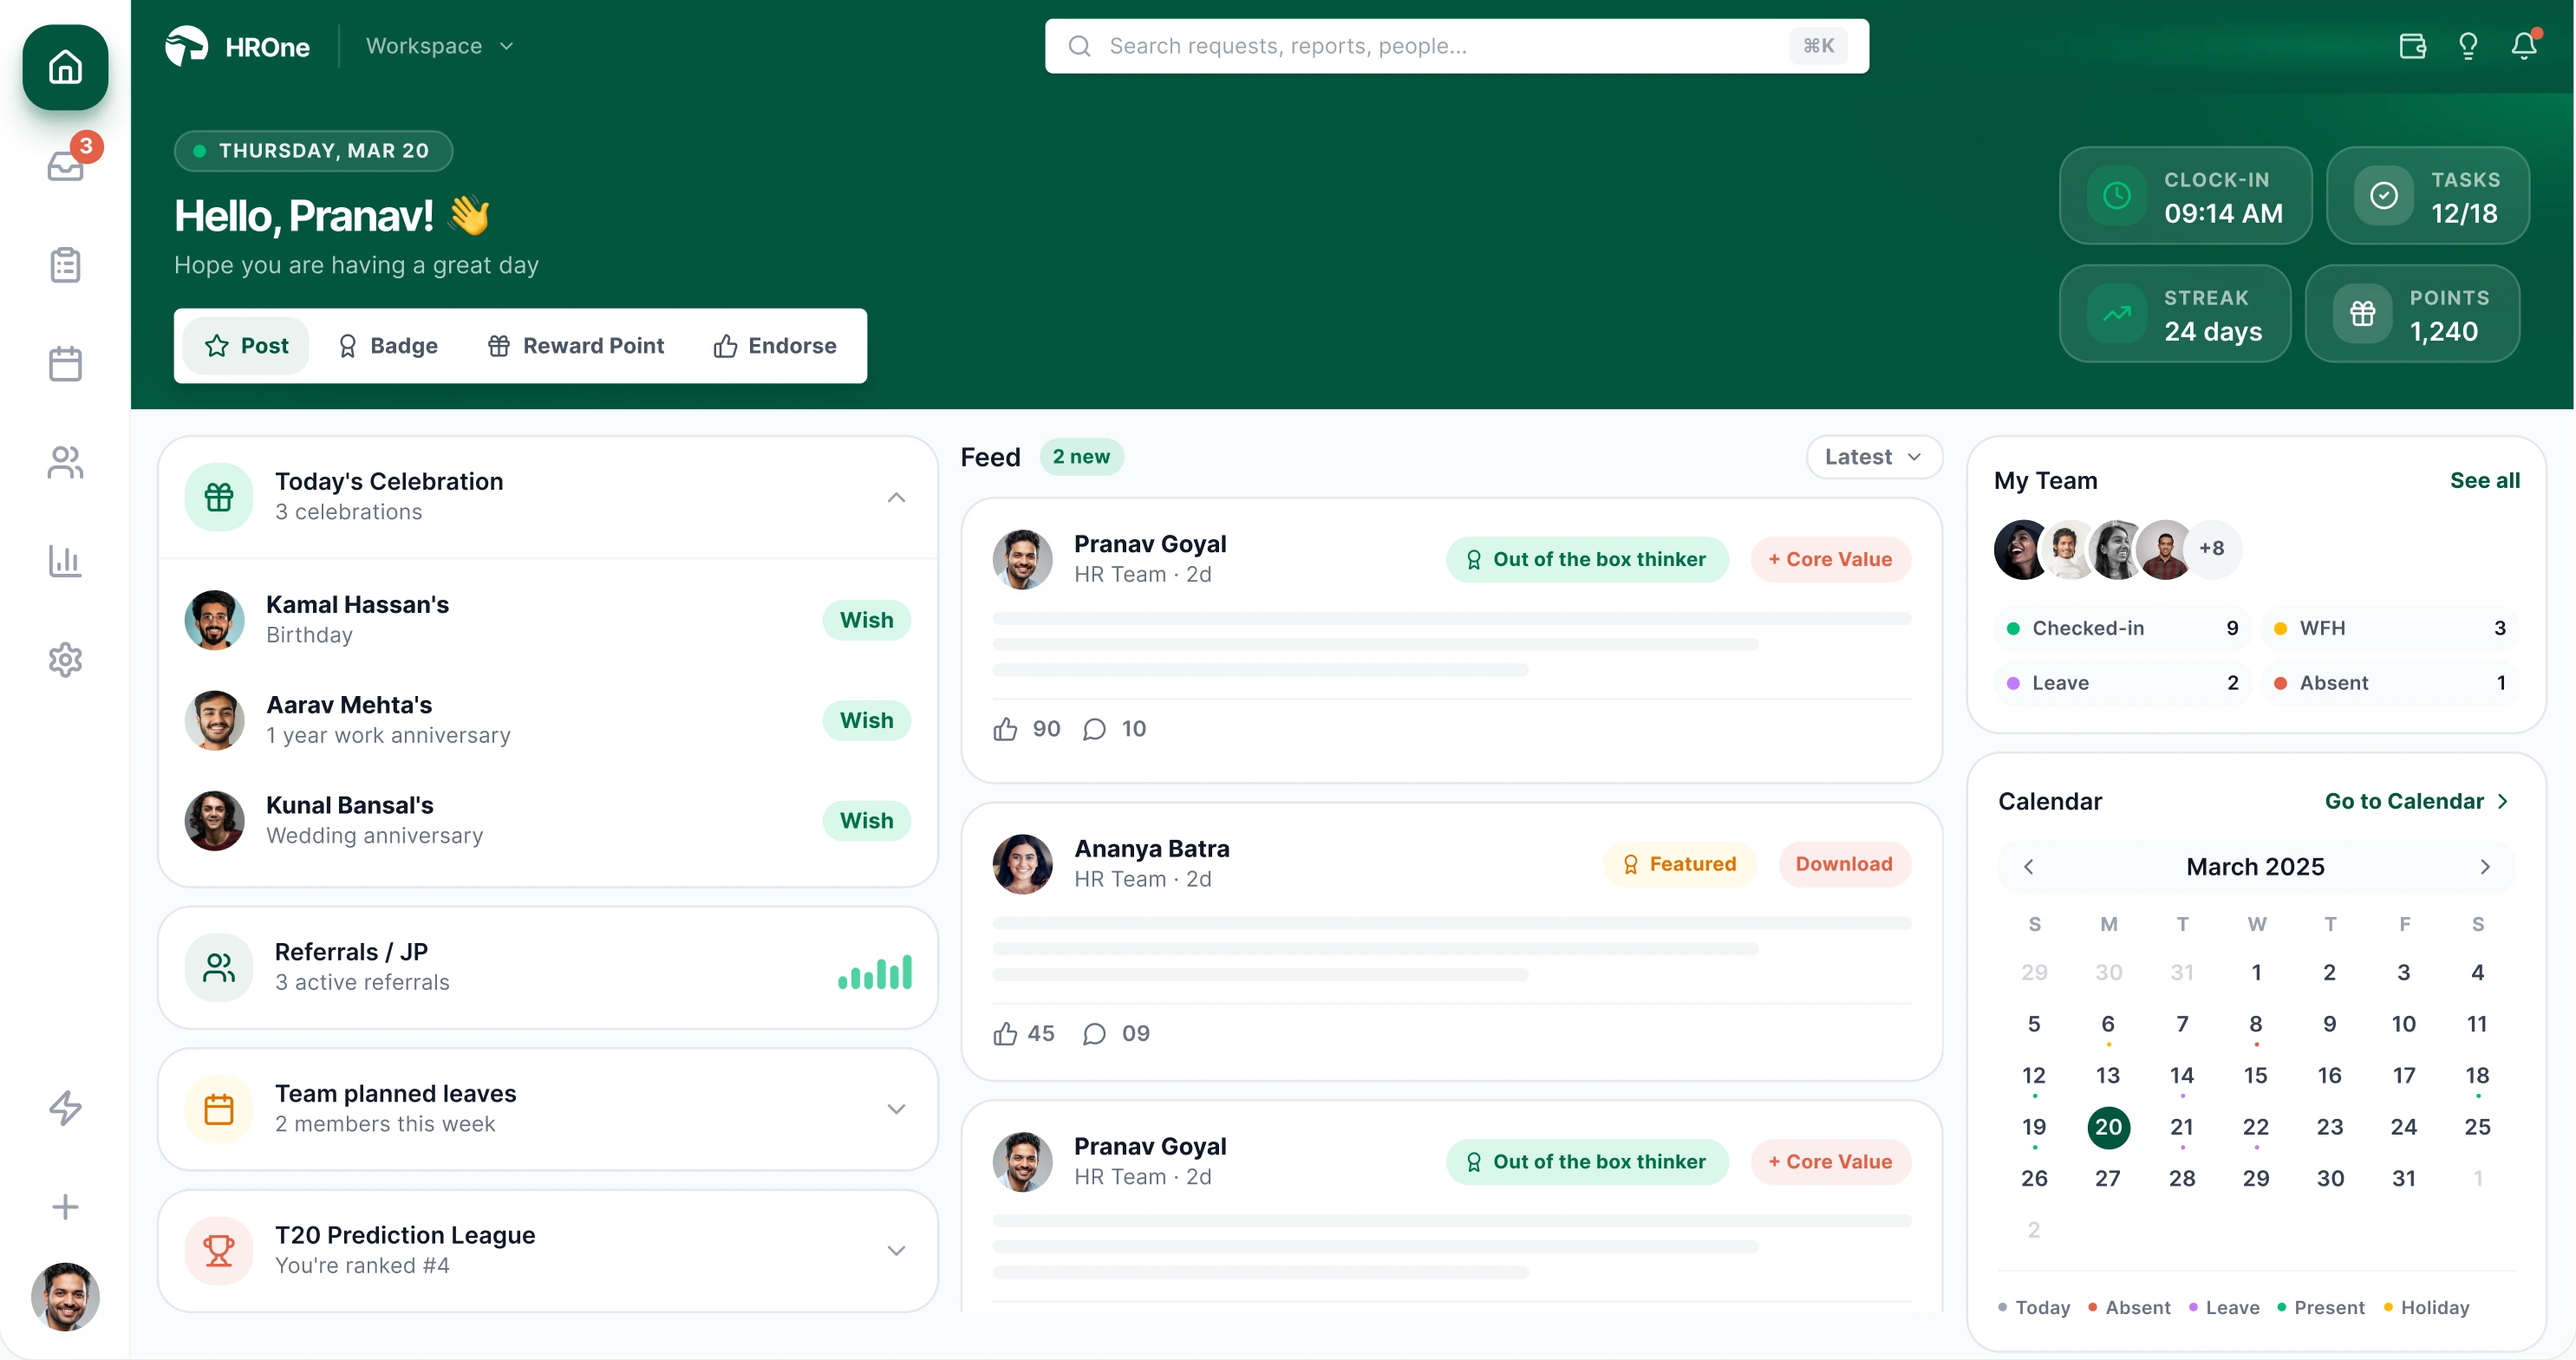
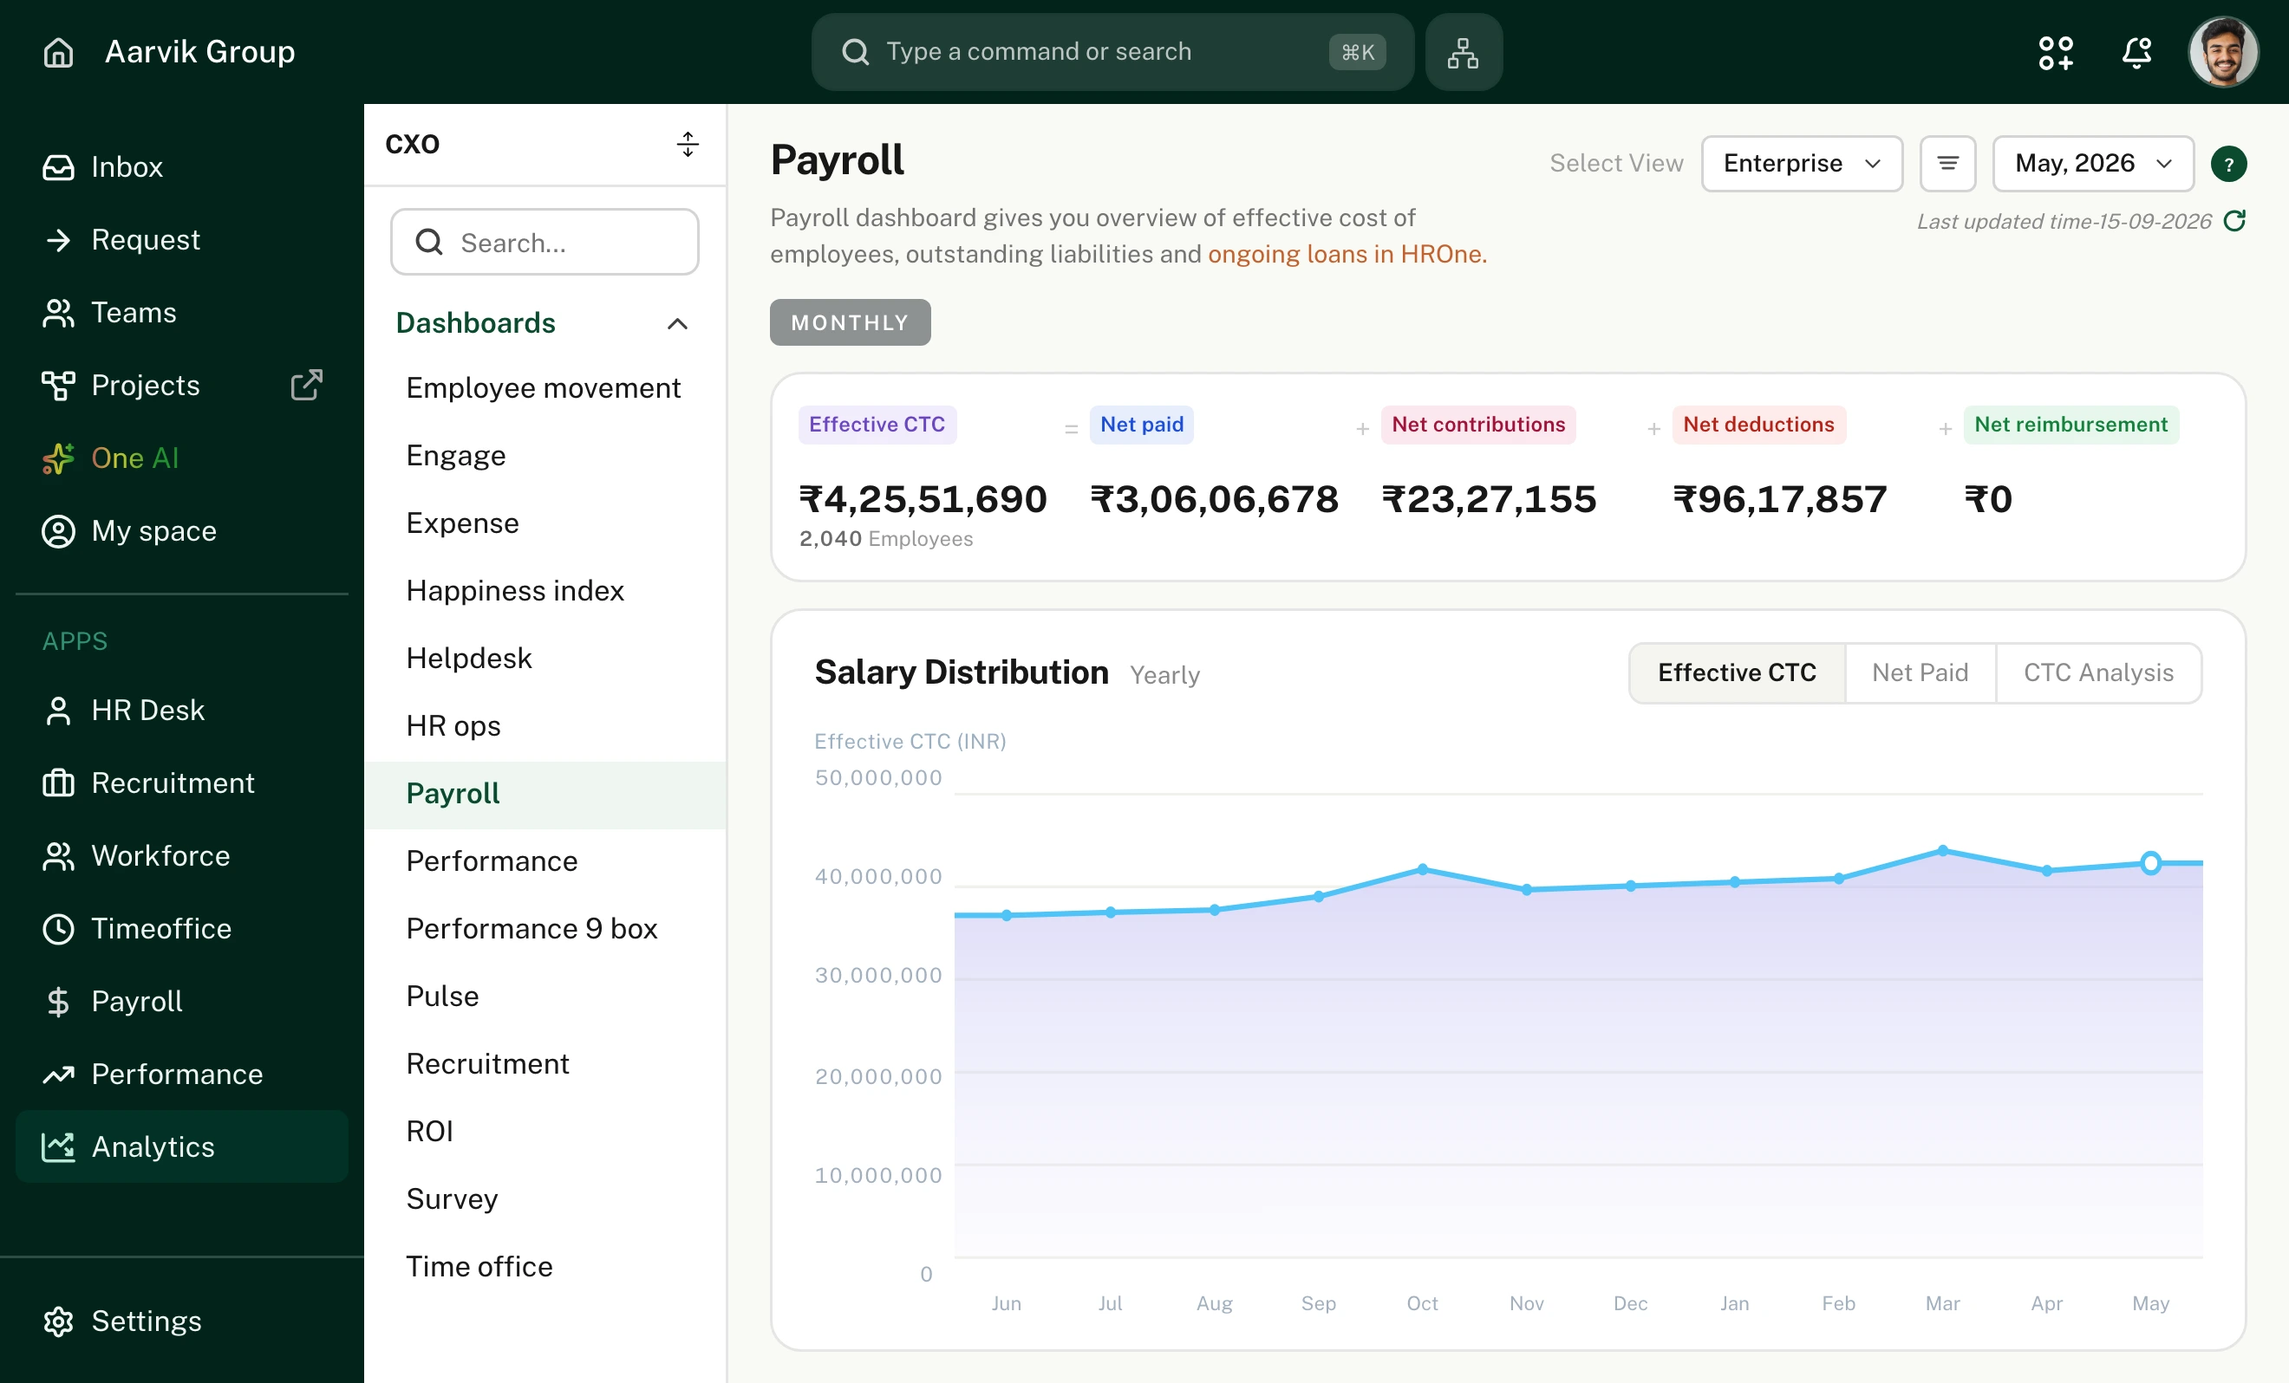
UPDATE

diff --git a/src/variants/v4/Trust.tsx b/src/variants/v4/Trust.tsx
@@ -51,58 +51,12 @@ const Lock = () => (
   </svg>
 );
 
-/* Reads as a widening claim: who buys it, how broadly, how much work it carries, then
-   the company credential. Industries belongs beside Customers — both describe the
-   customer base — rather than stranded between a usage metric and a funding one. */
-const stats = [
-  ["2,500+", "Customers"],
-  ["25+", "Industries"],
-  ["11 lakh+", "Employees managed"],
-  ["$8M", "Funding raised"],
-];
-
 export function Trust() {
-  /* No bottom padding on the section: the logo band's own padding is what ends the page,
-     which keeps the row centred between its rule and the page edge instead of depending on
-     two separate paddings agreeing with each other. */
+  /* Padding on neither edge of the section: the marquee's rule opens it and the logo
+     band's own padding closes the page, so each row stays centred against its own rule
+     rather than depending on two separate paddings agreeing with each other. */
   return (
-    <section className="mx-auto max-w-[1200px] px-6 pt-[clamp(44px,5vw,68px)]">
-      {/* headline + stats */}
-      <div className="grid items-center gap-x-10 gap-y-8 pb-[clamp(26px,2.6vw,34px)] lg:grid-cols-[1fr_auto]">
-        {/* deliberate two-line break, same idiom as the hero h1 — the natural rag put
-            "workforces" up on the first line and left "run on HROne." hanging */}
-        <h2 className="text-[26px] font-bold leading-tight tracking-[-0.01em] text-[var(--ink)]">
-          <span className="block">
-            India&apos;s most <span className="text-[var(--green)]">operationally complex</span>
-          </span>
-          <span className="block">workforces run on HROne.</span>
-        </h2>
-        {/* Columns size to their own content rather than to four equal 1fr slots. With
-            equal slots the short labels (INDUSTRIES, FUNDING RAISED) left an ~80px hole
-            before their rule while the long ones (EMPLOYEES MANAGED) nearly touched
-            theirs, so the rules read as attached to the stat on their right instead of
-            sitting between the two. gap-x-8 against pl-8 also makes the space either
-            side of each rule equal — it was 12px before and 20px after. */}
-        <div className="grid grid-cols-2 gap-x-6 gap-y-6 md:flex md:flex-wrap md:gap-x-8">
-          {stats.map(([n, l], i) => (
-            <div
-              key={l}
-              className={[
-                /* Two-up until there is room for one row. The rule has to follow the
-                   column, not the index: keyed to the index it landed on the third stat
-                   too, which opens the second row with a rule hanging off nothing. */
-                i % 2 === 1 ? "border-l border-[var(--border)] pl-6" : "",
-                /* In a single row it is every stat but the first. */
-                i === 0 ? "md:border-l-0 md:pl-0" : "md:border-l md:border-[var(--border)] md:pl-8",
-              ].join(" ")}
-            >
-              <div className="text-[26px] font-bold leading-none tracking-[-0.01em] text-[var(--green)] sm:text-[30px]">{n}</div>
-              <div className="mt-2 whitespace-nowrap text-[11px] font-semibold uppercase tracking-[0.06em] text-[var(--muted)]">{l}</div>
-            </div>
-          ))}
-        </div>
-      </div>
-
+    <section className="mx-auto max-w-[1200px] px-6">
       {/* logos — seamless marquee */}
       <div
         className="group relative overflow-hidden border-t border-[var(--border)] py-[clamp(32px,3.2vw,44px)]"

diff --git a/src/variants/v4/ProductShowcase.tsx b/src/variants/v4/ProductShowcase.tsx
@@ -2,18 +2,18 @@ import { useEffect, useLayoutEffect, useRef, useState, type RefObject } from "re
 import hrIcon from "@/imports/HRICON.svg";
 import dashboard from "@/imports/v4/dashboard.webp";
 
-/* v4 — same stage as v3, but the product is the real Figma screen rather than a mock.
+/* v4 — same stage as v3, but the product is a raster rather than a mock built here.
 
-   v3's dashboard was hand-built in JSX. v4 uses the payroll-home design straight out of
-   Figma (file Project_CRO_Designdev, node 1511:21845), exported at 3x and cropped to the
-   card's own bounds — Figma pads an export to make room for the drop shadow, and that
-   padding is not symmetric because the shadow is offset downwards, which is what clips the
-   tab strip off the top if you assume it is.
+   It used to be the employee home screen ("Hello, Pranav!") exported from Figma (file
+   Project_CRO_Designdev, node 1511:21845). It is now the payroll dashboard, to match the
+   root/v1 variation — rendered from v1's own JSX at its native 880px design width and 3x
+   DPR, with v1's browser chrome clipped off the top because the stage below draws its own.
 
-   It is a raster rather than reproduced markup because the design is 56 assets and ~940
-   lines of generated JSX, and the generated code comes back truncated at the tool's 100KB
-   ceiling. At 2971px wide the export is still ~2.5x the size it is ever displayed at, so it
-   stays crisp on a retina screen. */
+   Re-exporting it: run the page at /v1 with prefers-reduced-motion (which settles the
+   reveal at p=1), clear the mock's settled 0.88 transform so it paints at 880px, hide the
+   floating gutter cards, then clip the frame's first child (the chrome) off the capture.
+   Keep IMAGE_W as it is and recompute IMAGE_H from the new aspect — the stage's width is
+   tuned against the hero above it. */
 
 /* ---------- the stage ---------- */
 
@@ -122,7 +122,7 @@ function Ribbon({ y }: { y: number }) {
    against the edge. Confirmed against the export: the header's gradient runs 33 design px
    from the corrected top, exactly its stated height. */
 const IMAGE_W = 990.3333333333334;
-const IMAGE_H = 523;
+const IMAGE_H = 598.7015151515152; // 2640x1596 export, held to IMAGE_W's aspect
 
 function Dashboard() {
   return (
@@ -193,7 +193,7 @@ function Dashboard() {
       </div>
       <img
         src={dashboard}
-        alt="The HROne dashboard: a colleague's home screen with today's celebrations, the team feed, team availability and a calendar."
+        alt="The HROne payroll dashboard: effective CTC, net paid, contributions, deductions and reimbursement across 2,040 employees, over a yearly salary distribution chart."
         className="block w-full"
         width={IMAGE_W}
         height={IMAGE_H}

diff --git a/src/variants/v4/App.tsx b/src/variants/v4/App.tsx
@@ -37,10 +37,13 @@ export default function App() {
               its measure (it sits at ~85% of it on a laptop), height so a short screen does
               not spend the fold on type. The second clamp is the short-screen regime. */}
           <h1 className="mt-[clamp(10px,1.8vh,16px)] font-display text-[clamp(32px,min(6.4vw,10.4vh),96px)] [@media(max-height:700px)]:text-[clamp(30px,min(6.4vw,9vh),56px)] font-semibold leading-[0.98] tracking-[-0.032em] text-[var(--ink)]">
-            Built for <span className="text-[var(--green)]">complex</span> HR.
+            {/* Green sits on the noun, not the adjective — same move as v1. It also
+                stops doubling the highlight the Trust h2 puts on "operationally
+                complex" further down the page. */}
+            Built for complex <span className="text-[var(--green)]">HR</span>.
           </h1>
 
-          <p className="mt-[clamp(12px,2.2vh,18px)] w-full max-w-[720px] text-balance text-[clamp(16px,min(1.45vw,2.4vh),20px)] leading-[1.58] tracking-[-0.005em] text-[var(--muted)]">
+          <p className="mt-[clamp(12px,2.2vh,18px)] w-full max-w-[720px] text-balance text-[clamp(16px,min(1.45vw,2.4vh),20px)] leading-[1.4] tracking-[-0.005em] text-[var(--muted)]">
             {/* non-breaking space: "HR operations" is one term and the balanced rag was
                 splitting it across the two lines */}
             Deep configurability, powerful automation, and connected HR&nbsp;operations — built to work the
